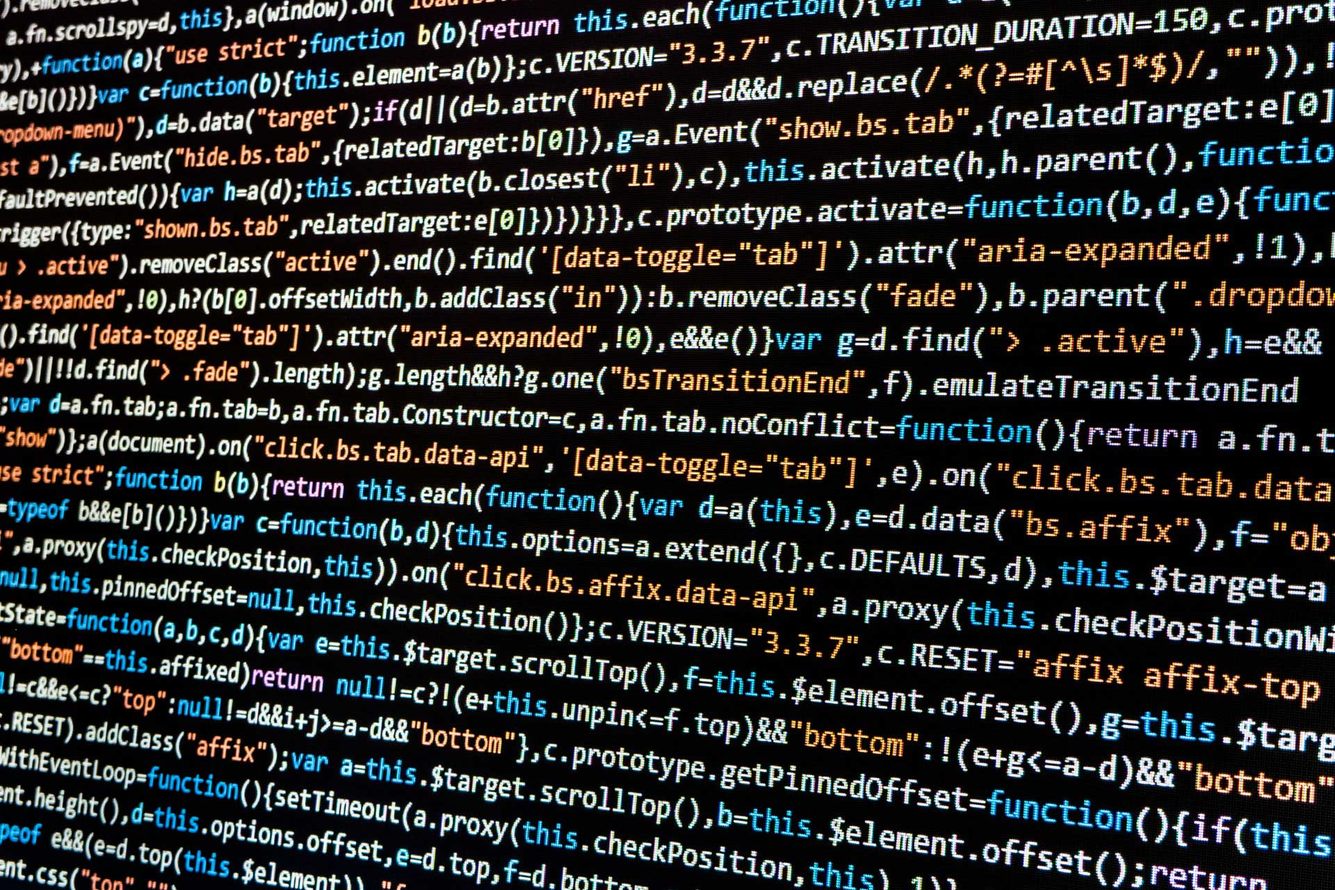
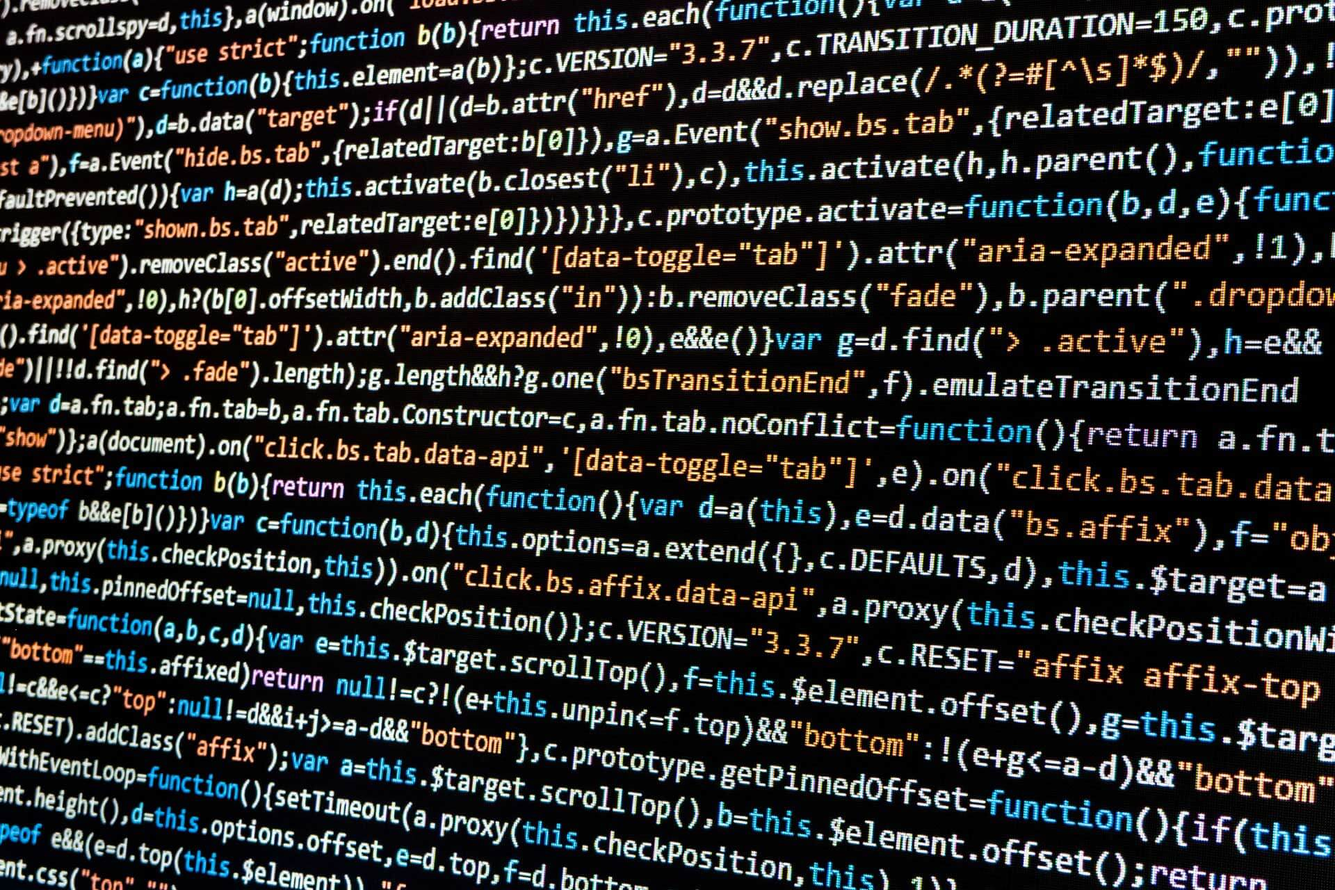
responsive for mobile devices version 3 and  image optimization

diff --git a/src/app/contact/contact.component.html b/src/app/contact/contact.component.html
@@ -1,37 +1,37 @@
-<section id="contact">
-    <!-- this creates a google map on the page with the given lat/lng from -->
-    <!-- the component as the initial center of the map: -->
-    <agm-map [latitude]="lat" [longitude]="lng">
-      <agm-marker [latitude]="lat" [longitude]="lng"></agm-marker>
-    </agm-map>
-  </section>
+<section class="container">
+  <div class="center small">
+    <h1 class="name">Milan Živanov</h1>
+    <br>
+    <p class="title">Frontend Developer</p>
+  </div>
+  <p class="center small contact">
+    <a title="Call me" href="tel:+381649646048">
+      +381&nbsp;64&nbsp;96&nbsp;46&nbsp;048
+    </a>
+    <br>
+    <a title="Email me" href="mailto:milan.zivanov@gmail.com">
+      milan.zivanov@gmail.com
+    </a>
+  </p>
+  <p class="center nounderline links">
+    <a title="Find me on Github" href="https://github.com/milanzivanov" target="_blank">
+      <i class="fab fa-github"></i>
+    </a>
+    <a title="Find me on LinkedIn" href="https://www.linkedin.com/in/milan-%C5%BEivanov-73a54847/" target="_blank">
+      <i class="fab fa-linkedin-in"></i>
+    </a>
+    <a title="Find me on Codepen" href="https://codepen.io/milanodituti/" target="_blank">
+      <i class="fab fa-codepen"></i>
+    </a>
+  </p>
+</section>
 
-  <section class="container">
-    <div class="center small">
-      <h1 class="name">Milan Živanov</h1>
-      <br>
-      <p class="title">Frontend Developer</p>
-    </div>
-    <p class="center small contact">
-      <a title="Call me" href="tel:+381649646048">
-        +381&nbsp;64&nbsp;96&nbsp;46&nbsp;048
-      </a>
-      <br>
-      <a title="Email me" href="mailto:milan.zivanov@gmail.com">
-        milan.zivanov@gmail.com
-      </a>
-    </p>
-    <p class="center nounderline links">
-      <a title="Find me on Github" href="https://github.com/milanzivanov" target="_blank">
-        <i class="fab fa-github"></i>
-      </a>
-      <a title="Find me on LinkedIn" href="https://www.linkedin.com/in/milan-%C5%BEivanov-73a54847/" target="_blank">
-        <i class="fab fa-linkedin-in"></i>
-      </a>
-      <a title="Find me on Codepen" href="https://codepen.io/milanodituti/" target="_blank">
-        <i class="fab fa-codepen"></i>
-      </a>
-    </p>
-  </section>
+<section id="contact">
+  <!-- this creates a google map on the page with the given lat/lng from -->
+  <!-- the component as the initial center of the map: -->
+  <agm-map [latitude]="lat" [longitude]="lng">
+    <agm-marker [latitude]="lat" [longitude]="lng"></agm-marker>
+  </agm-map>
+</section>
 
 

diff --git a/src/app/main/main.component.scss b/src/app/main/main.component.scss
@@ -5,6 +5,8 @@ section#main {
   overflow: hidden;
   width: 100%;
 
+
+
   .slider {
     position: absolute;
     top: 0;
@@ -42,10 +44,20 @@ section#main {
 
   @media only screen and (min-width: 120px) and (max-width : 767px) {
     .slider {
+      display: none;
       animation: none;
     }
   }
 }
+
+@media only screen and (min-width: 120px) and (max-width : 767px) {
+  section#main {
+    background-image: url("../../assets/bg.jpeg");
+    background-size: cover;
+    background-position: center;
+  }
+}
+
 
 #main:hover .slider {
   transition: opacity .5s;
@@ -138,6 +150,12 @@ wider_container {
     margin-bottom: 5px;
     padding: 0 0.2em;
     transition: all 100ms ease-in-out;
+  }
+}
+
+@media only screen and (min-width: 120px) and (max-width : 767px) {
+  .modal-content h1 span {
+    padding: 5px 5px 0 5px;
   }
 }
 

diff --git a/src/app/app.component.html b/src/app/app.component.html
@@ -19,7 +19,7 @@
   </div>
 
   <div class="right">
-    <a href="https://angular.io/">
+    <a target="_blank" href="https://angular.io/">
[1 lines of base64/hex data omitted]
     </a>
   </div>

diff --git a/src/styles.scss b/src/styles.scss
@@ -3,12 +3,13 @@
 @font-face {
   font-family: 'ns';
   src: url('./assets/fonts/NeoSansStd-Bold/NeoSansStd-Bold.eot?#iefix') format('embedded-opentype'),
+       url('./assets/fonts/NeoSansStd-Bold/NeoSansStd-Bold.ttf')  format('truetype'),
        url('./assets/fonts/NeoSansStd-Bold/NeoSansStd-Bold.otf')  format('opentype'),
        url('./assets/fonts/NeoSansStd-Bold/NeoSansStd-Bold.woff') format('woff'),
-       url('./assets/fonts/NeoSansStd-Bold/NeoSansStd-Bold.ttf')  format('truetype'),
        url('./assets/fonts/NeoSansStd-Bold/NeoSansStd-Bold.svg#NeoSansStd-Bold') format('svg');
   font-weight: normal;
   font-style: normal;
+  font-display: block;
 }
 
 html,

diff --git a/src/app/portfolio/portfolio.component.html b/src/app/portfolio/portfolio.component.html
@@ -11,7 +11,7 @@
           <ng-container *ngFor="let work of works">
               <ng-container *ngIf="work.workLinks && work.workLinks.length > 0">
                 <li *ngFor="let link of work.workLinks; index as i">
-                  <a class="box cool-link"
+                  <a target="_blank" class="box cool-link"
                      href="{{link.link}}">
                      <div class="box-data">
                        <i class="material-icons">link</i>&nbsp;- {{link.name}}

diff --git a/src/app/experience/experience.component.scss b/src/app/experience/experience.component.scss
@@ -7,6 +7,12 @@ section#experience {
   background-size: cover;
 }
 
+@media only screen and (min-width: 120px) and (max-width : 767px) {
+  section#experience {
+    height: 300px;
+  }
+}
+
 .companies {
   background-color: #fff;
   display: flex;

diff --git a/src/app/contact/contact.component.scss b/src/app/contact/contact.component.scss
@@ -2,6 +2,12 @@ agm-map {
   height: 400px;
 }
 
+@media only screen and (min-width: 120px) and (max-width : 767px) {
+  agm-map {
+    height: 300px;
+  }
+}
+
 section.container {
   background-image: url('../../assets/bg-wire.svg');
 

diff --git a/src/app/portfolio/portfolio.component.ts b/src/app/portfolio/portfolio.component.ts
@@ -16,7 +16,7 @@ export class PortfolioComponent implements OnInit {
   async ngOnInit() {
     const temp = await this._getInfo.getInfo();
     this.works = temp;
-    console.log(this.works);
+    // console.log(this.works);
   }
 
 }

diff --git a/src/app/experience/experience.component.ts b/src/app/experience/experience.component.ts
@@ -17,7 +17,7 @@ export class ExperienceComponent implements OnInit {
     const temp = await this._infoStories.getInfo();
     this.stories = temp;
 
-    console.log(this.stories);
+    // console.log(this.stories);
 
   }
 

diff --git a/src/app/portfolio/portfolio.component.scss b/src/app/portfolio/portfolio.component.scss
@@ -7,6 +7,12 @@ section#portfolio {
   background-size: cover;
 }
 
+@media only screen and (min-width: 120px) and (max-width : 767px) {
+  section#portfolio {
+    height: 300px;
+  }
+}
+
 .wrapper {
   padding: 10px 0;
 }

diff --git a/src/app/technology/technology.component.scss b/src/app/technology/technology.component.scss
@@ -6,3 +6,9 @@ section#technology {
   height: 400px;
   background-size: cover;
 }
+
+@media only screen and (min-width: 120px) and (max-width : 767px) {
+  section#technology {
+    height: 300px;
+  }
+}

diff --git a/src/app/menu/menu.component.scss b/src/app/menu/menu.component.scss
@@ -15,7 +15,7 @@
 @media only screen and (min-width: 120px) and (max-width : 767px) {
   :host {
     top: 95px;
-    bottom: auto;
+    bottom: 0;
     width: 100%;
   }
 }
